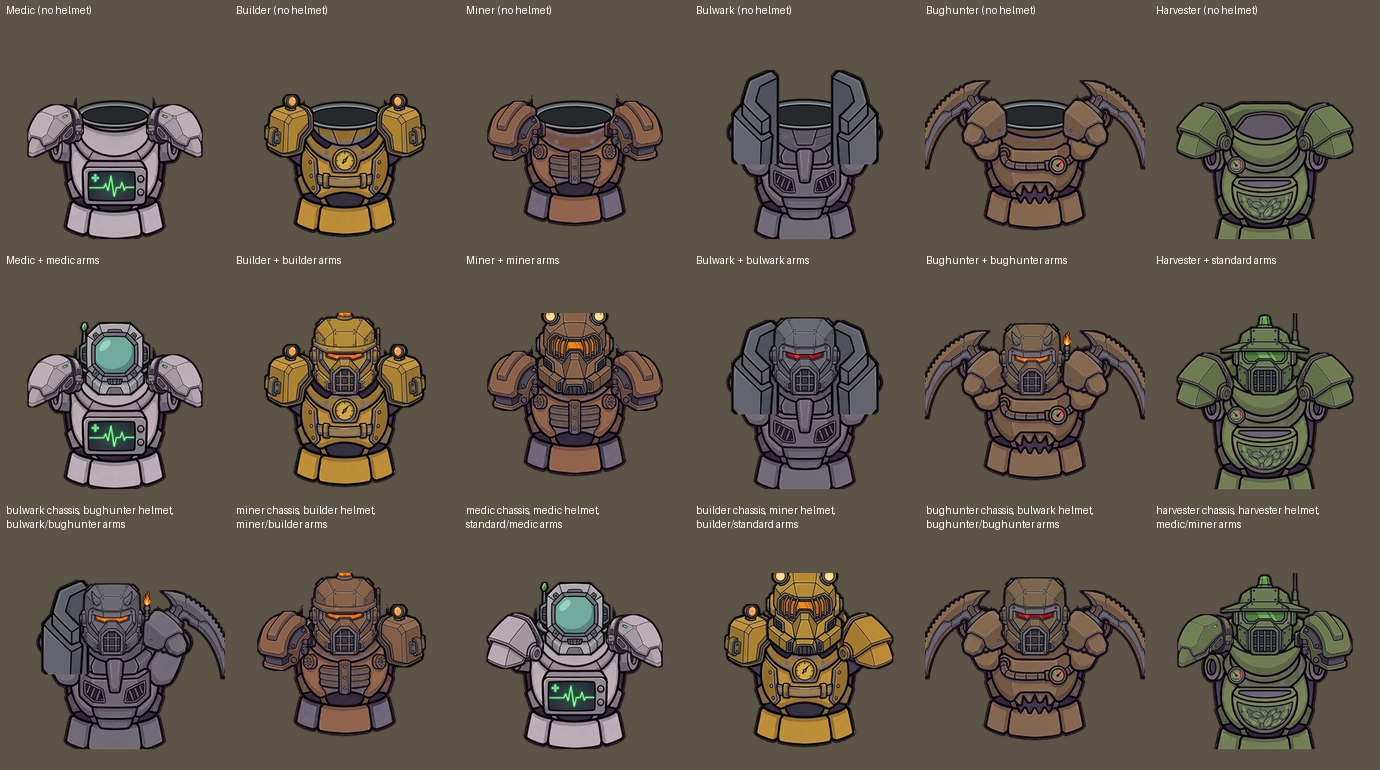
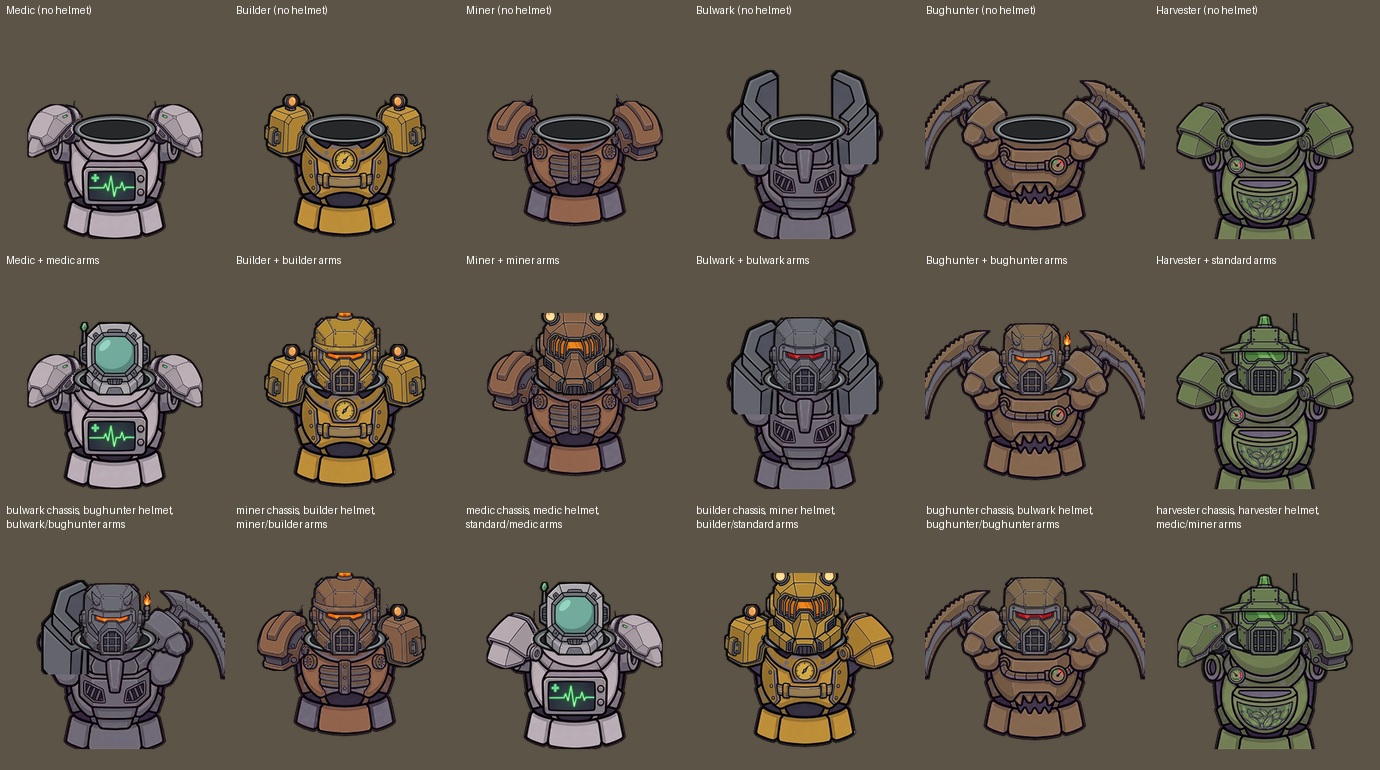
One standard collar ring on every chassis; arm pieces tuck behind it
Claude-Session: https://claude.ai/code/session_01GM4XsNt8FF8EEgy8oUJDKj

diff --git a/Source/Art/parts_lib.py b/Source/Art/parts_lib.py
@@ -111,31 +111,47 @@ def arm_layer(path, inner_x, top, height, side, flip_v=False):
         pair = tuple(i.transpose(Image.FLIP_LEFT_RIGHT) for i in pair)
     return pair
 
-def flatten_collar(layer_pair, ring_h_ratio=0.32, sink=6):
-    """Replace a chassis's tall round neck tube with a low, flat collar ring: erase the
-    tube above its middle, then draw a wide, shallow oval rim with a dark opening, in the
-    suit's own style (gunmetal rim, thick black outline). The rim is unpainted (mask 0)."""
+COLLAR_RINGS = []   # masks of every collar ring drawn, in pre-rescale canvas pixels
+
+
+CANON_RING = (127.0, 96.0, 96.0)   # centre x, centre y, width of the standard collar ring (pre-rescale)
+RING_H_RATIO = 0.32
+
+
+def ring_ellipse(pad=0.0):
+    """Outer ellipse of the standard collar ring, as a mask in pre-rescale canvas pixels."""
+    cx, cy, w = CANON_RING
+    rw = w / 2 + 10 + 3 + pad
+    rh = (w / 2 + 10) * RING_H_RATIO + 3 + pad
+    yy, xx = np.mgrid[0:S, 0:S]
+    return ((xx - cx) / rw) ** 2 + ((yy - cy) / rh) ** 2 <= 1
+
+
+def flatten_collar(layer_pair):
+    """Replace a chassis's neck - a tall round tube or the model's own collar - with the
+    standard flat collar ring, identical on every chassis so any arm piece can tuck behind
+    it: erase the old neck above the ring, then draw the ring (gunmetal rim, dark opening,
+    thick black outline; unpainted)."""
     tex, mask = (np.array(i).copy() for i in layer_pair)
+    cx, cy, w = CANON_RING
     c = collar(layer_pair[0])
-    if c is None:
-        return layer_pair
-    cx, cy, w, h, bottom = c
     rim = 10
-    x0, x1 = int(cx - w / 2 - rim), int(cx + w / 2 + rim)
-    top_cut = int(bottom) - sink           # the whole tube goes, down to where it meets the shoulders
+    half = max(w / 2, (c[2] / 2) if c else 0) + rim
+    x0, x1 = int(cx - half), int(cx + half)
+    top_cut = int(cy)
     tex[:top_cut, x0:x1] = 0
     mask[:top_cut, x0:x1] = 0
     K = 4
     big = Image.new('RGBA', (S * K, S * K), (0, 0, 0, 0))
     d = ImageDraw.Draw(big)
-    rw, rh = (w / 2 + rim) * K, (w / 2 + rim) * ring_h_ratio * K
-    ccx, ccy = cx * K, top_cut * K
-    d.ellipse((ccx - rw - 3 * K, ccy - rh - 3 * K, ccx + rw + 3 * K, ccy + rh + 3 * K), fill=(10, 10, 10, 255))   # outline
-    d.ellipse((ccx - rw, ccy - rh, ccx + rw, ccy + rh), fill=(96, 100, 104, 255))                             # gunmetal rim
-    d.ellipse((ccx - rw + 4 * K, ccy - rh + 3 * K, ccx + rw - 4 * K, ccy + rh - 1 * K), fill=(150, 154, 158, 255))  # rim highlight
+    rw, rh = (w / 2 + rim) * K, (w / 2 + rim) * RING_H_RATIO * K
+    ccx, ccy = cx * K, cy * K
+    d.ellipse((ccx - rw - 3 * K, ccy - rh - 3 * K, ccx + rw + 3 * K, ccy + rh + 3 * K), fill=(10, 10, 10, 255))
+    d.ellipse((ccx - rw, ccy - rh, ccx + rw, ccy + rh), fill=(96, 100, 104, 255))
+    d.ellipse((ccx - rw + 4 * K, ccy - rh + 3 * K, ccx + rw - 4 * K, ccy + rh - 1 * K), fill=(150, 154, 158, 255))
     ow, oh = rw - 9 * K, rh - 6 * K
-    d.ellipse((ccx - ow - 2 * K, ccy - oh - 2 * K + K, ccx + ow + 2 * K, ccy + oh + 2 * K + K), fill=(10, 10, 10, 255))
-    d.ellipse((ccx - ow, ccy - oh + K, ccx + ow, ccy + oh + K), fill=(38, 40, 42, 255))                         # opening
+    d.ellipse((ccx - ow - 2 * K, ccy - oh - 1 * K, ccx + ow + 2 * K, ccy + oh + 3 * K), fill=(10, 10, 10, 255))
+    d.ellipse((ccx - ow, ccy - oh + K, ccx + ow, ccy + oh + K), fill=(38, 40, 42, 255))
     ring = np.array(big.resize((S, S), Image.LANCZOS)).astype(np.float32)
     a = ring[..., 3:4] / 255
     out = tex.astype(np.float32)
@@ -145,3 +161,13 @@ def flatten_collar(layer_pair, ring_h_ratio=0.32, sink=6):
     m[..., 0:1] *= (1 - a)
     m[..., 3:4] = np.maximum(m[..., 3:4], ring[..., 3:4])
     return Image.fromarray(out.astype(np.uint8), 'RGBA'), Image.fromarray(m.astype(np.uint8), 'RGBA')
+
+
+def clip_behind(layer_pair, mask):
+    """Erase a layer wherever `mask` is set: used to tuck arm pieces behind the collar ring."""
+    out = []
+    for img in layer_pair:
+        a = np.array(img).copy()
+        a[mask] = 0
+        out.append(Image.fromarray(a, img.mode))
+    return tuple(out)

diff --git a/Source/Art/build_parts_prototype.py b/Source/Art/build_parts_prototype.py
@@ -12,15 +12,20 @@ for k in V:
     src = f'{SP}/mod5/chassis_harvester.png' if k == 'harvester' else f'{SP}/mod4/chassis_{k}.png'
     lay=layer(src,T); c=collar(lay[0])
     lay=shift(lay,0,CANON_CY-c[1])
-    C[k]=rescale(lay if k == 'harvester' else flatten_collar(lay),GS)
+    C[k]=rescale(flatten_collar(lay),GS)
     H[k]=rescale(helmet_layer(f'{SP}/mod2/helmet_{k}.png',127,CANON_BOTTOM+DROP,HW*{'harvester':1.25,'miner':1.1}.get(k,1)),GS)
 # arm placement: (inner edge x on the left side, top y, height) in final canvas pixels
 AX=float(sys.argv[2]) if len(sys.argv)>2 else 70
 ARMS={'standard':(AX,96,66,False),'medic':(AX,98,62,False),'builder':(AX,86,74,False),'miner':(AX+2,94,70,False),
       'bulwark':(98,58,110,False),'bughunter':(AX+4,70,104,False)}
+# the collar ring sits in front of the arm pieces: it is the same ring on every chassis, so
+# one cut-out of its outline tucks every arm piece behind it
+ringimg = Image.fromarray((ring_ellipse() * 255).astype(np.uint8), 'L')
+ring_final = np.array(rescale((ringimg,), GS)[0]) > 0
 A={}
 for a,(ix,top,h,fv) in ARMS.items():
-    A[a]={'left':arm_layer(f'{SP}/arms/arm_{a}.png',ix,top,h,'left',fv),'right':arm_layer(f'{SP}/arms/arm_{a}.png',ix,top,h,'right',fv)}
+    A[a]={'left':clip_behind(arm_layer(f'{SP}/arms/arm_{a}.png',ix,top,h,'left',fv),ring_final),
+          'right':clip_behind(arm_layer(f'{SP}/arms/arm_{a}.png',ix,top,h,'right',fv),ring_final)}
 def suit(ch,he,al,ar,col):
     return stack([C[ch],A[al]['left'],A[ar]['right'],H[he]],col)   # pauldrons over the shoulder joints, under the helmet
 floor=(92,84,70,255)
